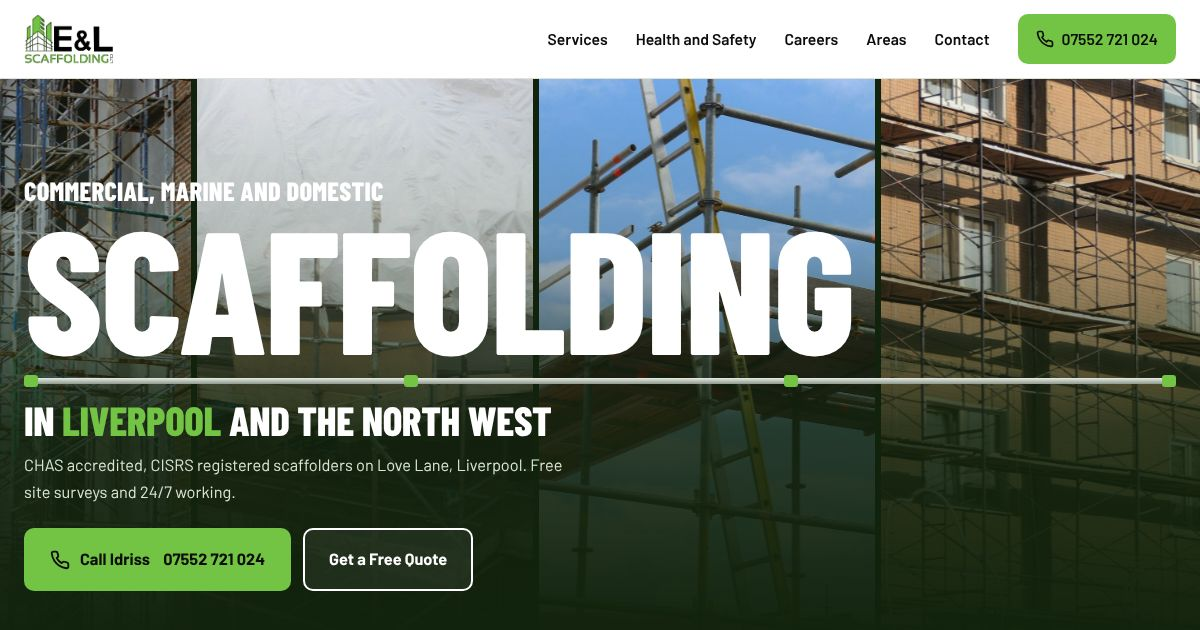
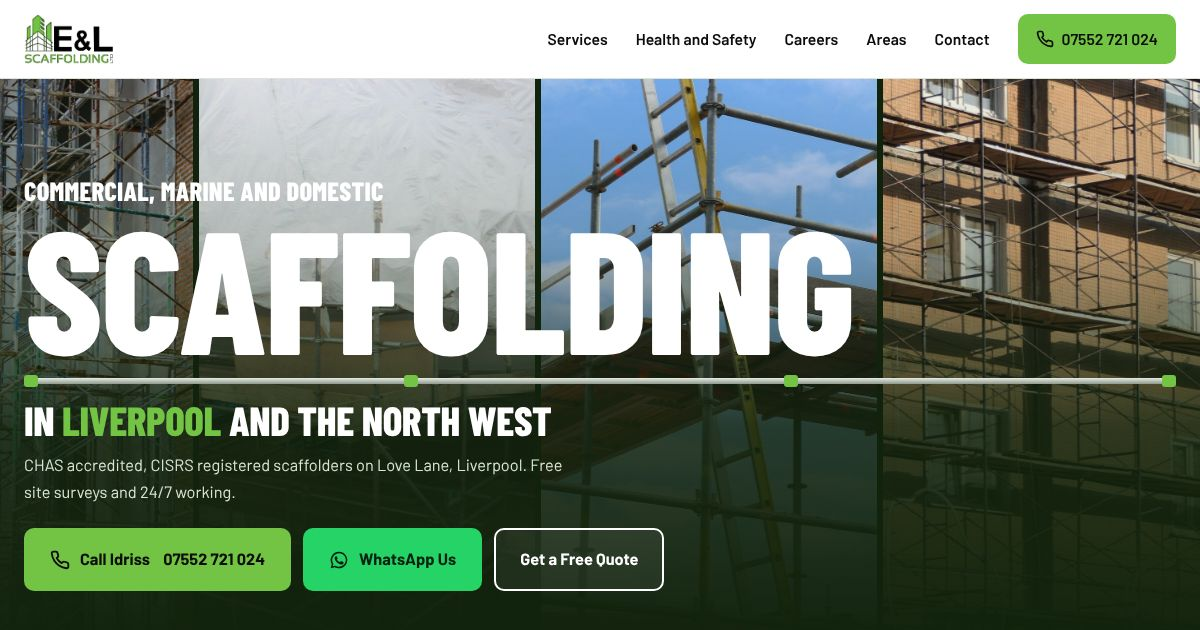
E&L Scaffolding B: WhatsApp button in the hero between Call and Get a Quote

diff --git a/el-scaffolding-b/index.html b/el-scaffolding-b/index.html
@@ -61,6 +61,7 @@
     <p class="b-lede">CHAS accredited, CISRS registered scaffolders on Love Lane, Liverpool. Free site surveys and 24/7 working.</p>
     <div class="hero-cta">
       <a class="btn btn-green" data-call href="#contact"><svg viewBox="0 0 24 24" width="20" height="20" fill="none" stroke="currentColor" stroke-width="2.2" stroke-linecap="round" stroke-linejoin="round"><path d="M22 16.9v3a2 2 0 0 1-2.2 2 19.8 19.8 0 0 1-8.6-3.1 19.5 19.5 0 0 1-6-6A19.8 19.8 0 0 1 2.1 4.2 2 2 0 0 1 4.1 2h3a2 2 0 0 1 2 1.7c.1.9.4 1.8.7 2.7a2 2 0 0 1-.5 2.1L8 9.8a16 16 0 0 0 6 6l1.3-1.3a2 2 0 0 1 2.1-.4c.9.3 1.8.6 2.7.7a2 2 0 0 1 1.7 2z"/></svg>Call Idriss&nbsp;<span data-phone-text></span></a>
+      <a class="btn btn-wa" data-wa href="#contact"><svg viewBox="0 0 24 24" width="20" height="20" fill="currentColor"><path d="M12 2a10 10 0 0 0-8.6 15.1L2 22l5-1.3A10 10 0 1 0 12 2zm0 18.2a8.2 8.2 0 0 1-4.2-1.2l-.3-.2-3 .8.8-2.9-.2-.3A8.2 8.2 0 1 1 12 20.2zm4.5-6.1c-.2-.1-1.5-.7-1.7-.8s-.4-.1-.6.1-.7.8-.8 1-.3.2-.5.1a6.7 6.7 0 0 1-3.3-2.9c-.3-.4.3-.4.7-1.4.1-.2 0-.3 0-.4l-.8-1.8c-.2-.5-.4-.4-.6-.4h-.5a1 1 0 0 0-.7.3 3 3 0 0 0-.9 2.2 5.2 5.2 0 0 0 1.1 2.7 11.8 11.8 0 0 0 4.5 4c1.7.7 2.3.8 3.2.6a2.7 2.7 0 0 0 1.8-1.2 2.2 2.2 0 0 0 .1-1.2c0-.1-.2-.2-.5-.3z"/></svg>WhatsApp Us</a>
       <a class="btn btn-ghost" href="#picker">Get a Free Quote</a>
     </div>
   </div>
@@ -289,7 +290,7 @@
 
 <div class="fabs">
   <a class="fab fab-call" data-call href="#contact" aria-label="Call E&amp;L Scaffolding"><svg viewBox="0 0 24 24" width="26" height="26" fill="none" stroke="currentColor" stroke-width="2.2" stroke-linecap="round" stroke-linejoin="round"><path d="M22 16.9v3a2 2 0 0 1-2.2 2 19.8 19.8 0 0 1-8.6-3.1 19.5 19.5 0 0 1-6-6A19.8 19.8 0 0 1 2.1 4.2 2 2 0 0 1 4.1 2h3a2 2 0 0 1 2 1.7c.1.9.4 1.8.7 2.7a2 2 0 0 1-.5 2.1L8 9.8a16 16 0 0 0 6 6l1.3-1.3a2 2 0 0 1 2.1-.4c.9.3 1.8.6 2.7.7a2 2 0 0 1 1.7 2z"/></svg></a>
-  <a class="fab fab-wa" data-wa href="#contact" aria-label="WhatsApp E&amp;L Scaffolding"><svg viewBox="0 0 24 24" width="28" height="28" fill="currentColor"><path d="M12 2a10 10 0 0 0-8.6 15.1L2 22l5-1.3A10 10 0 1 0 12 2zm0 18.2a8.2 8.2 0 0 1-4.2-1.2l-.3-.2-3 .8.8-2.9-.2-.3A8.2 8.2 0 1 1 12 20.2zm4.5-6.1c-.2-.1-1.5-.7-1.7-.8s-.4-.1-.6.1-.7.8-.8 1-.3.2-.5.1a6.7 6.7 0 0 1-3.3-2.9c-.3-.4.3-.4.7-1.4.1-.2 0-.3 0-.4l-.8-1.8c-.2-.5-.4-.4-.6-.4h-.5a1 1 0 0 0-.7.3 3 3 0 0 0-.9 2.2 5.2 5.2 0 0 0 1.1 2.7 11.8 11.8 0 0 0 4.5 4c1.7.7 2.3.8 3.2.6a2.7 2.7 0 0 0 1.8-1.2 2.2 2.2 0 0 0 .1-1.2c0-.1-.2-.2-.5-.3z"/></svg></a>
+  <a class="fab fab-wa wait" data-wa href="#contact" aria-label="WhatsApp E&amp;L Scaffolding"><svg viewBox="0 0 24 24" width="28" height="28" fill="currentColor"><path d="M12 2a10 10 0 0 0-8.6 15.1L2 22l5-1.3A10 10 0 1 0 12 2zm0 18.2a8.2 8.2 0 0 1-4.2-1.2l-.3-.2-3 .8.8-2.9-.2-.3A8.2 8.2 0 1 1 12 20.2zm4.5-6.1c-.2-.1-1.5-.7-1.7-.8s-.4-.1-.6.1-.7.8-.8 1-.3.2-.5.1a6.7 6.7 0 0 1-3.3-2.9c-.3-.4.3-.4.7-1.4.1-.2 0-.3 0-.4l-.8-1.8c-.2-.5-.4-.4-.6-.4h-.5a1 1 0 0 0-.7.3 3 3 0 0 0-.9 2.2 5.2 5.2 0 0 0 1.1 2.7 11.8 11.8 0 0 0 4.5 4c1.7.7 2.3.8 3.2.6a2.7 2.7 0 0 0 1.8-1.2 2.2 2.2 0 0 0 .1-1.2c0-.1-.2-.2-.5-.3z"/></svg></a>
 </div>
 
 <script src="site.js"></script>

diff --git a/el-scaffolding-b/site.js b/el-scaffolding-b/site.js
@@ -24,10 +24,10 @@
   }
 
   // call FAB appears once the hero buttons have scrolled away
-  var fab = document.querySelector('.fab-call'), heroCta = document.querySelector('.hero-cta');
+  var fab = document.querySelector('.fab-call'), fabWa = document.querySelector('.bhero') ? document.querySelector('.fab-wa') : null, heroCta = document.querySelector('.hero-cta');
   if (fab && heroCta && 'IntersectionObserver' in window) {
-    new IntersectionObserver(function(en){ fab.classList.toggle('show', !en[0].isIntersecting && en[0].boundingClientRect.top < 0); }).observe(heroCta);
-  } else if (fab) { fab.classList.add('show'); }
+    new IntersectionObserver(function(en){ var past = !en[0].isIntersecting && en[0].boundingClientRect.top < 0; fab.classList.toggle('show', past); if (fabWa) fabWa.classList.toggle('show', past); }).observe(heroCta);
+  } else if (fab) { fab.classList.add('show'); if (fabWa) fabWa.classList.add('show'); }
 
   // reveals
   var rv = document.querySelectorAll('.reveal');

diff --git a/el-scaffolding-b/site.css b/el-scaffolding-b/site.css
@@ -343,7 +343,9 @@ footer a:hover{color:#fff}
 @media (max-width:880px){
  .bhero{height:calc(100svh - 70px)}
  .mq-tile{width:62vw}
- .bhero-copy{padding-bottom:92px}
+ .bhero-copy{padding-bottom:28px}
+ .bhero .hero-cta{gap:10px;margin-top:18px}
+ .bhero .hero-cta .btn{padding:14px 20px}
  .b-big{font-size:min(17.6vw,8rem)}
  .b-lede{font-size:1rem}
  .pin{height:260vh}
@@ -357,3 +359,6 @@ footer a:hover{color:#fff}
  .mq-track{animation:none!important}
  .pin{height:auto}.pin-stage{position:static}.pin-steps{min-height:0}.pstep{position:static;opacity:1;transform:none;margin-bottom:18px}.r-lift{opacity:1;transform:none}.pin-bar{display:none}
 }
+/* B: the hero carries WhatsApp, so the WhatsApp FAB waits until the hero has scrolled away */
+.fab-wa.wait{opacity:0;transform:translateY(16px) scale(.8);pointer-events:none;transition:opacity .3s,transform .3s}
+.fab-wa.wait.show{opacity:1;transform:none;pointer-events:auto}
